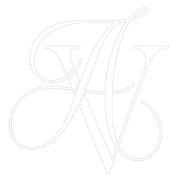
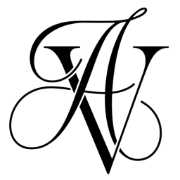
update: enhance theme support in MobileMenu and Navbar components

Changed region(s): [[0.0278, 0.0278, 0.9444, 0.9722]]

diff --git a/app/components/global/MobileMenu.tsx b/app/components/global/MobileMenu.tsx
@@ -1,7 +1,8 @@
 "use client";
 import Link from "next/link";
 import Image from "next/image";
-import { useState } from "react";
+import { useState, useEffect } from "react";
+import { useTheme } from "next-themes";
 import { RxHamburgerMenu } from "react-icons/rx";
 import {
   HiBeaker,
@@ -10,10 +11,15 @@ import {
   HiOutlineX,
   HiUser,
 } from "react-icons/hi";
-import Logo from "../../../public/logo.png";
+import LightLogo from "../../../public/logo-light.png";
+import DarkLogo from "../../../public/logo.png";
 
 export default function MobileMenu() {
+  const { theme, systemTheme } = useTheme();
+  const currentTheme = theme === "system" ? systemTheme : theme;
   const [navShow, setNavShow] = useState(false);
+  const [hasMounted, setHasMounted] = useState(false);
+  useEffect(() => setHasMounted(true), []);
   const data = [
     {
       title: "About",
@@ -64,7 +70,11 @@ export default function MobileMenu() {
       >
         <div className="flex items-center justify-between mt-6 px-8">
           <Link href="/" onClick={onToggleNav}>
-            <Image src={Logo} width={35} height={35} alt="logo" />
+            {hasMounted ? (
+              <Image src={currentTheme === 'light' ? DarkLogo : LightLogo} width={35} height={35} alt="logo" />
+            ) : (
+              <span className="block w-[35px] h-[35px]" />
+            )}
           </Link>
 
           <button

diff --git a/app/components/global/Navbar.tsx b/app/components/global/Navbar.tsx
@@ -1,4 +1,5 @@
 'use client';
+import { useState, useEffect } from "react";
 import { useTheme } from "next-themes";
 
 import Image from "next/image";
@@ -10,7 +11,10 @@ import UnmountStudio from "./Unmount";
 import MobileMenu from "./MobileMenu";
 
 export default function Navbar() {
-  const { theme } = useTheme();
+  const { theme, systemTheme } = useTheme();
+  const currentTheme = theme === "system" ? systemTheme : theme;
+  const [hasMounted, setHasMounted] = useState(false);
+  useEffect(() => setHasMounted(true), []);
   const data = [
     {
       title: "About",
@@ -35,7 +39,11 @@ export default function Navbar() {
       <header className="text-sm py-6 md:px-16 px-6 border-b dark:border-zinc-800 border-zinc-200 z-30 md:mb-28 mb-10">
         <div className="max-w-6xl mx-auto flex items-center justify-between">
           <Link href="/">
-            <Image src={theme === 'light' ? DarkLogo : LightLogo} width={35} height={35} alt="logo" />
+            {hasMounted ? (
+              <Image src={currentTheme === 'light' ? DarkLogo : LightLogo} width={35} height={35} alt="logo" />
+            ) : (
+              <span className="block w-[35px] h-[35px]" />
+            )}
           </Link>
 
           <nav className="md:block hidden">
